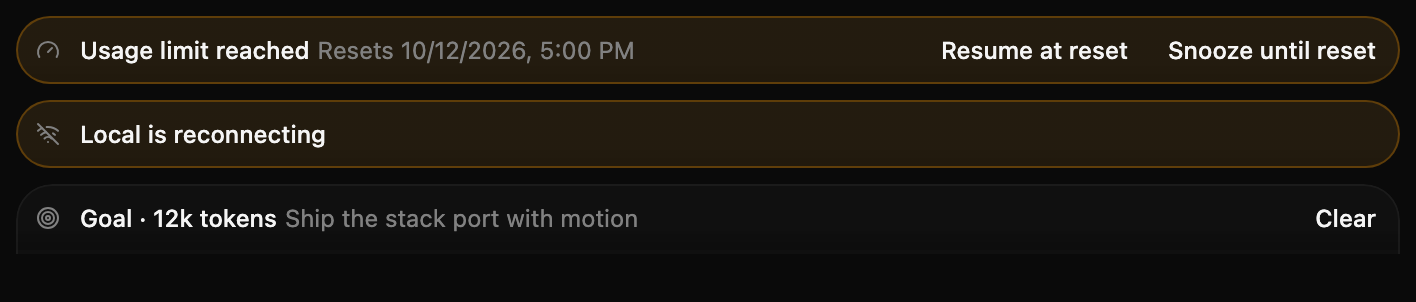
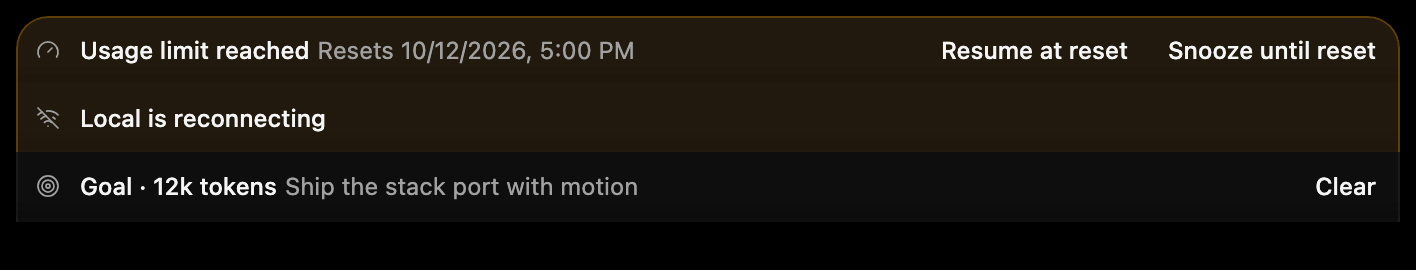
fix(composer): attach notices without a peek and tighten media corners (#25329)
Read T3 3814 apps/web/src/components/chat/ComposerBannerStack.tsx:35-52, ComposerBanner.tsx:65-103, ComposerSurface.tsx:78-96 and ComposerServerUpdateStatus.tsx:7-17. Stack attached notices, remove the peek and its shadow, use 16px banner corners and 8px media corners, and show a static download glyph during updates. This includes the surface fixes from #25316 and #25335, whose context tray is replaced in 3824. Preserve the CandyWrapper themes and update the matching source markup and PNGs.

diff --git a/Packages/CandyKit/Sources/Features/Composer/Panels/ComposerBannerStack.swift b/Packages/CandyKit/Sources/Features/Composer/Panels/ComposerBannerStack.swift
@@ -91,6 +91,8 @@ public final class ComposerBannerStackView: DSView {
     public var exitingView: ComposerBannerView? { items.first { $0.id == exitingId }?.view }
 
     /// Whether there is anything behind the front item.
+    private var modern: Bool { ComposerDesign.uses3814(dark: effectiveAppearance.isDark) }
+
     public var hasStack: Bool { items.count > 1 }
 
     /// The ordered items; the first is the front, attached outside this view. Reparents the stacked
@@ -119,8 +121,8 @@ public final class ComposerBannerStackView: DSView {
         if ordered.count < 2, expanded { expanded = false }
         for item in stacked {
             if item.view.superview !== column { column.addSubview(item.view) }
-            item.view.placement = .floating
-            item.view.joinsAbove = false
+            item.view.placement = modern ? .attached : .floating
+            item.view.joinsAbove = modern && item.id != stacked.first?.id
             item.view.isHidden = false
         }
         for view in column.subviews where !stacked.contains(where: { $0.view === view }) {
@@ -128,7 +130,8 @@ public final class ComposerBannerStackView: DSView {
         }
         peek.variant = stacked.first?.view.variant ?? .neutral
         // `showCollapsedStackCap`: no peek while the front item leaves.
-        peek.isHidden = !hasStack || ordered.first?.id == exitingId
+        peek.isHidden = modern || !hasStack || ordered.first?.id == exitingId
+        if modern { clip.isHidden = false; peek.alphaValue = 0 }
         isHidden = !hasStack
         needsLayout = true
     }
@@ -136,17 +139,17 @@ public final class ComposerBannerStackView: DSView {
     /// The stacked notices' height when open: floating cards, `space-y-2`, `pb-2`.
     public func expandedHeight(width: CGFloat) -> CGFloat {
         let cards = stacked.map { $0.height(width) - ComposerBannerView.overlap }
-        return cards.isEmpty ? 0 : cards.reduce(0, +) + 8 * CGFloat(cards.count - 1) + 8
+        return cards.isEmpty ? 0 : cards.reduce(0, +) + (modern ? 0 : 8 * CGFloat(cards.count - 1) + 8)
     }
 
     /// This view's height: the peek collapsed, the open column expanded (`min-h-3`).
     public func height(width: CGFloat) -> CGFloat {
         guard hasStack else { return 0 }
-        return expanded ? max(Self.peekHeight, expandedHeight(width: width)) : Self.peekHeight
+        return modern ? expandedHeight(width: width) : expanded ? max(Self.peekHeight, expandedHeight(width: width)) : Self.peekHeight
     }
 
     public func setExpanded(_ open: Bool) {
-        guard open != expanded, !open || hasStack else { return }
+        guard !modern, open != expanded, !open || hasStack else { return }
         expanded = open
         onLayoutChange?()
         superview?.layoutSubtreeIfNeeded()
@@ -237,8 +240,8 @@ public final class ComposerBannerStackView: DSView {
         var y: CGFloat = 0
         for item in stacked {
             let ch = item.height(w) - ComposerBannerView.overlap
-            item.view.frame = NSRect(x: 0, y: y, width: w, height: ch)
-            y += ch + 8
+            item.view.frame = NSRect(x: 0, y: y, width: w, height: modern ? item.height(w) : ch)
+            y += ch + (modern ? 0 : 8)
         }
     }
 

diff --git a/Packages/CandyKit/Sources/Features/Composer/Panels/ComposerBannerView.swift b/Packages/CandyKit/Sources/Features/Composer/Panels/ComposerBannerView.swift
@@ -17,7 +17,7 @@ public class ComposerBannerView: DSView {
     public static let drawerInset: CGFloat = 22
     static let radius: CGFloat = 18
     /// Matches the composer's corner, Capy's tighter one under Dither.
-    var cardRadius: CGFloat { ThemeRuntime.isDither(dark: effectiveAppearance.isDark) ? DitherChrome.cardRadius : Self.radius }
+    var cardRadius: CGFloat { ThemeRuntime.isDither(dark: effectiveAppearance.isDark) ? DitherChrome.cardRadius : (ComposerDesign.uses3814(dark: effectiveAppearance.isDark) ? 16 : Self.radius) }
 
     var variant: Variant { didSet { if variant != oldValue { needsDisplay = true } } }
     /// Docked under another attachment (the queue strip): no top corners and no top border, so
@@ -85,7 +85,7 @@ public class ComposerBannerView: DSView {
             tint.backgroundColor = Themed.color(\.error, 0.08).cgColor(in: self)
             surface.layer?.borderColor = Themed.color(\.error, 0.32).cgColor(in: self)
         }
-        seam.isHidden = !dark || ditherFloating
+        seam.isHidden = !dark || ditherFloating || (ComposerDesign.uses3814(dark: dark) && joinsAbove)
         seam.colors = [Themed.black(0).cgColor, Themed.black(0.18).cgColor]
         CATransaction.commit()
     }

diff --git a/Packages/CandyKit/Tests/FeaturesTests/BannerStackFidelityTests.swift b/Packages/CandyKit/Tests/FeaturesTests/BannerStackFidelityTests.swift
@@ -81,7 +81,7 @@ struct BannerStackFidelityTests {
         case "notice": view = update
         case "floating":
             let r = recovery
-            r.placement = .floating
+            r.placement = .attached
             view = r
         case "stack":
             return stack([item("goal", goal, .activity), item("recovery", recovery, .urgent), item("environment", environment)], expanded: false, width: size.width)
@@ -151,7 +151,7 @@ struct BannerStackFidelityTests {
         stack.update(ordered)
         #expect(stack.hasStack)
         #expect(stack.peek.variant == .warning)
-        #expect(stack.expandedHeight(width: 600) == CGFloat(126)) // three 34pt cards, two gaps, `pb-2`
+        #expect(stack.expandedHeight(width: 600) == CGFloat(102)) // three 34pt cards, two gaps, `pb-2`
         // Only items with an X leave, one at a time.
         stack.requestDismiss("recovery")
         #expect(stack.exitingId == nil)

diff --git a/Packages/CandyKit/Sources/Features/Composer/ExpandedImagePreviewView.swift b/Packages/CandyKit/Sources/Features/Composer/ExpandedImagePreviewView.swift
@@ -223,6 +223,8 @@ public final class ExpandedImagePreviewView: DSView {
     }
 
     public override func updateLayer() {
+        let radius: CGFloat = ComposerDesign.uses3814(dark: effectiveAppearance.isDark) ? 8 : 10
+        frameView.layer?.cornerRadius = radius + 1; image.layer?.cornerRadius = radius
         layer?.backgroundColor = NSColor.black.withAlphaComponent(0.75).cgColor
         frameView.layer?.backgroundColor = Themed.color(\.background).cgColor(in: self)
         frameView.layer?.borderColor = Themed.color(\.border, 0.7).cgColor(in: self)
@@ -404,6 +406,7 @@ private final class SnapShotDetailsPane: DSView {
     }
 
     override func updateLayer() {
+        layer?.cornerRadius = ComposerDesign.uses3814(dark: effectiveAppearance.isDark) ? 8 : 10
         layer?.backgroundColor = Themed.color(\.background).cgColor(in: self)
         layer?.borderColor = Themed.color(\.border, 0.7).cgColor(in: self)
     }

diff --git a/Packages/CandyKit/Sources/Features/Composer/ComposerServerUpdateNotice.swift b/Packages/CandyKit/Sources/Features/Composer/ComposerServerUpdateNotice.swift
@@ -56,7 +56,7 @@ public struct ComposerServerUpdateNotice: Equatable {
             // Update progress outranks passive notices. Its only action is "Disconnect server".
             // The stage or the failure is the plain description (ChatView.tsx:2325-2332, a261a71817).
             return .init(variant: .neutral, icon: .download, title: title, description: detail, actions: action.map { [$0] } ?? [],
-                         priority: .urgent, spinner: true, actionTooltip: actionTooltip)
+                         priority: .urgent, spinner: !ComposerDesign.current, actionTooltip: actionTooltip)
         case .failed:
             return .init(variant: .error, icon: .circleAlert, title: title, description: detail, actions: action.map { [$0] } ?? [],
                          dismissLabel: dismiss, priority: .notice, iconIsError: true)

diff --git a/Packages/CandyKit/Tests/FeaturesTests/ServerUpdateUITests.swift b/Packages/CandyKit/Tests/FeaturesTests/ServerUpdateUITests.swift
@@ -25,7 +25,7 @@ struct ServerUpdateUITests {
 
         let running = ComposerServerUpdateNotice(status: .running(.resuming), dismissible: true)
         #expect(running.title == "Updating server" && running.detail == "Restarting…")
-        #expect(running.content.spinner && running.content.priority == .urgent)
+        #expect(!running.content.spinner && running.content.priority == .urgent) // 3814 uses a static download glyph.
         #expect(!running.content.dismissible && running.content.actions.isEmpty)
 
         let failed = ComposerServerUpdateNotice(status: .failed("The server did not resume on t3@2.0.0."), action: "Retry")

diff --git a/Packages/CandyKit/Sources/Features/Composer/ComposerImageShelfView.swift b/Packages/CandyKit/Sources/Features/Composer/ComposerImageShelfView.swift
@@ -348,6 +348,7 @@ public final class ComposerImageShelfView: DSView {
         }
 
         override func updateLayer() {
+            layer?.cornerRadius = ComposerDesign.uses3814(dark: effectiveAppearance.isDark) ? 8 : 10
             layer?.backgroundColor = Themed.color(\.background).cgColor(in: self)
             layer?.borderColor = Themed.color(\.border, 0.8).cgColor(in: self)
             progressStrip.layer?.backgroundColor = Themed.color(\.background, 0.85).cgColor(in: self)

diff --git a/Packages/CandyKit/Sources/Features/Composer/Panels/QuestionPanelView.swift b/Packages/CandyKit/Sources/Features/Composer/Panels/QuestionPanelView.swift
@@ -387,6 +387,7 @@ final class OptionRow: DSView {
     }
 
     override func updateLayer() {
+        layer?.cornerRadius = ComposerDesign.uses3814(dark: effectiveAppearance.isDark) ? 6 : 8
         // Nightly 3754 :253-257: transparent at rest, `muted/30` only on unselected hover.
         let fill: NSColor? = isDither && selected ? Themed.color(\.muted, 0.55)
             : (hovered && (!selected || isDither) && !disabled ? Themed.color(\.muted, 0.3) : nil)

diff --git a/scripts/gen-banner-stack-spec.py b/scripts/gen-banner-stack-spec.py
@@ -37,7 +37,7 @@ VARIANTS = {
 def surface(variant, placement):
     tint = "" if variant != "default" else " [--chat-composer-attached-tint:transparent]"
     place = ("[--chat-composer-attachment-overlap:calc(1rem+1px)] before:rounded-t-2xl before:mask-t-from-transparent before:mask-t-from-4 before:mask-t-to-black before:mask-t-to-4"
-             if placement == "attached" else "[--chat-composer-attachment-overlap:0px] before:rounded-2xl")
+             if True else "[--chat-composer-attachment-overlap:0px] before:rounded-2xl")
     return (f"{SURFACE_COLORS} relative isolate border-0 bg-transparent shadow-none{tint} {VARIANTS[variant]} {place} "
             "before:pointer-events-none before:absolute before:inset-0 before:-z-1 before:border before:border-(--chat-composer-attached-outline) "
             "before:bg-(--chat-composer-attached-surface)/(--glass-opacity) before:bg-linear-to-b before:from-(--chat-composer-attached-tint) before:to-(--chat-composer-attached-tint) before:backdrop-blur-(--glass-blur) before:backdrop-saturate-(--glass-saturation) "
@@ -79,19 +79,14 @@ PEEK_BORDER = {"default": "border-(--chat-composer-attached-outline)", "error": 
 # ComposerBannerStack.tsx:120-250 and ComposerBanner.tsx:84-145: the notices, then the front attachment,
 # in a `ComposerBanner.Column`.
 def stack(front, stacked, expanded):
-    peek = (f'<button type="button" data-slot="composer-banner-peek" class="{SURFACE_COLORS} {NEUTRAL} absolute inset-x-0 bottom-0 z-0 mx-auto h-3 w-[96%] cursor-pointer rounded-t-2xl border border-b-0 shadow-md '
-            "bg-(--chat-composer-attached-surface)/(--glass-opacity) backdrop-blur-(--glass-blur) backdrop-saturate-(--glass-saturation) transition-opacity duration-150 ease-out "
-            f'{PEEK_BORDER[stacked[0]["variant"]]}' + (" pointer-events-none invisible opacity-0" if expanded else "") + '"></button>')
-    items = "".join(f'<div class="transition-[opacity,translate] duration-220 ease-in opacity-100">{alert(**s, placement="floating")}</div>' for s in stacked)
-    shown = "pointer-events-auto visible translate-y-0 opacity-100" if expanded else "pointer-events-none invisible translate-y-1 opacity-0"
-    notices = (f'<div class="relative z-20 min-h-3{" z-50" if expanded else ""}">{peek}'
-               f'<div role="group" class="grid transition-[grid-template-rows] duration-150 ease-out {"grid-rows-[1fr]" if expanded else "grid-rows-[0fr]"}">'
-               f'<div class="min-h-0 overflow-hidden"><div class="transform-gpu space-y-2 pb-2 transition-[opacity,transform] duration-150 ease-out will-change-[opacity,transform] {shown}">'
-               f'{items}</div></div></div></div>')
-    attachment = ('<div data-slot="composer-banner-attachment" class="mx-auto -mb-[calc(1rem+1px)] w-[calc(100%-2*var(--chat-composer-drawer-inset))] relative z-0">'
-                  f'<div class="relative z-10 transition-[opacity,translate] duration-220 ease-in opacity-100">{alert(**front)}</div></div>')
-    return ('<div class="flex min-w-0 flex-1 flex-col empty:hidden [&>[data-slot=composer-banner-attachment]]:w-full [&>[data-slot=composer-banner-attachment]:last-child]:mb-0">'
-            f'{notices}{attachment}</div>')
+    notices = [*stacked, front]
+    parts = []
+    for i, notice in enumerate(notices):
+        card = alert(**notice, placement="attached")
+        attachment = "mx-auto -mb-[calc(1rem+1px)] w-[calc(100%-2*var(--chat-composer-drawer-inset))] [&+[data-slot=composer-banner-attachment]_[data-composer-banner-surface=attached]]:before:rounded-none [&+[data-slot=composer-banner-attachment]_[data-composer-banner-surface=attached]]:before:border-t-0"
+        parts.append('<div data-slot="composer-banner-attachment" class="' + attachment + '">' + card + '</div>')
+    return '<div class="flex min-w-0 flex-1 flex-col empty:hidden [&>[data-slot=composer-banner-attachment]]:w-full [&>[data-slot=composer-banner-attachment]:last-child]:mb-0">' + ''.join(parts) + '</div>'
+
 
 
 W = "display:block;width:692px"
@@ -107,7 +102,7 @@ cases = [
     {"name": "stack-collapsed-neutral", "html": stack(RECOVERY, [NOTICE], False), "wrapperStyle": W, "native": {"kind": "stack-neutral"}},
     {"name": "stack-expanded", "html": stack(GOAL, [RECOVERY, ENVIRONMENT], True), "wrapperStyle": W, "native": {"kind": "stack-open"}},
 ]
-spec = {"component": "banner-stack", "source": "apps/web/src/components/chat/ComposerBannerStack.tsx, ComposerBanner.tsx, ChatView.tsx",
+spec = {"sourceVersion": "v0.1.4-nightly.20261028.3814", "component": "banner-stack", "source": "apps/web/src/components/chat/ComposerBannerStack.tsx, ComposerBanner.tsx, ChatView.tsx",
         "states": ["rest"], "themes": ["light", "dark"], "cases": cases}
 with open(os.path.join(ROOT, "design/component-reference/banner-stack.json"), "w") as f:
     json.dump(spec, f, indent=1, ensure_ascii=False)

diff --git a/scripts/gen-composer-attachments-spec.py b/scripts/gen-composer-attachments-spec.py
@@ -131,7 +131,7 @@ cases = [
     {"name": "stash-empty", "html": empty, "native": {"case": "stash-empty"}, "wrapperStyle": "display:block;width:692px"},
     {"name": "stash-badge", "html": badge, "native": {"case": "stash-badge"}, "wrapperStyle": "display:inline-block"},
 ]
-spec = {"component": "composer-attachments", "source": "apps/web/src/components/chat/ChatComposer.tsx, ExpandedImageDialog.tsx, ComposerStashMenu.tsx, ComposerStashBadge.tsx",
+spec = {"sourceVersion": "v0.1.4-nightly.20261028.3824", "component": "composer-attachments", "source": "apps/web/src/components/chat/ChatComposer.tsx, ExpandedImageDialog.tsx, ComposerStashMenu.tsx, ComposerStashBadge.tsx",
         "states": ["rest"], "themes": ["light", "dark"], "cases": cases}
 with open(os.path.join(ROOT, "design/component-reference/composer-attachments.json"), "w") as f:
     json.dump(spec, f, indent=1, ensure_ascii=False)
